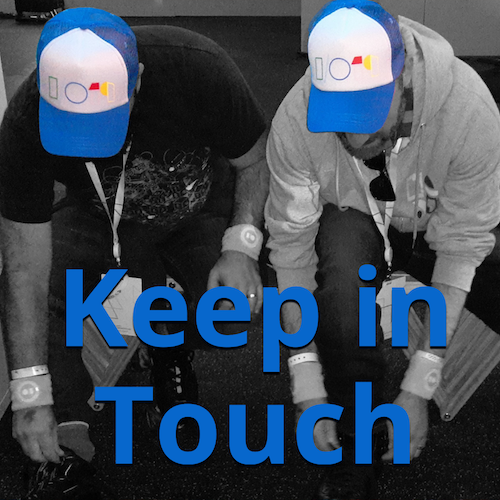
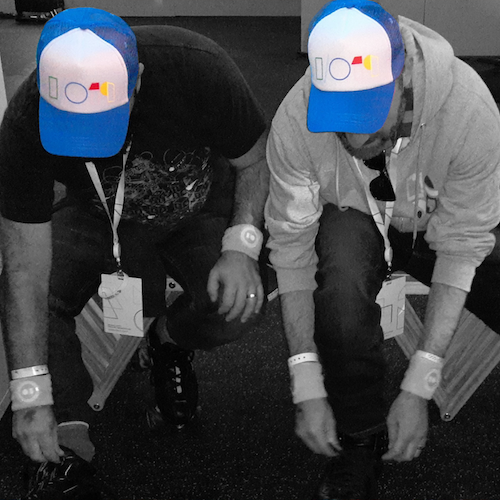
Various fixes
Fix
Attempt to address GitHub warning related to non-official theme
Add alt info to header image
Use local svg for Apple Podcasts rather than CDN
Link to Twitter profiles on About page
Remove Keep In Touch overlay from site avatar for improved legibility
Add subtitle for better context

diff --git a/_layouts/home.html b/_layouts/home.html
@@ -7,7 +7,7 @@ layout: default
   <div class="call-out"
   style="background-image: url('{{ site.baseurl }}/{{ site.theme_settings.header_text_feature_image }}')">
     {{ site.theme_settings.header_text }}
-    <a href="https://podcasts.apple.com/us/podcast/keep-in-touch/id1464996852?mt=2&app=itunes&at=10lPxj&ct=keepintouchfmheader" style="display:inline-block;overflow:hidden;background:url(https://linkmaker.itunes.apple.com/en-us/badge-lrg.svg?releaseDate=2019-05-23T00:00:00Z&kind=podcast&bubble=podcasts) no-repeat;width:165px;height:40px;"></a>
+    <a href="https://podcasts.apple.com/us/podcast/keep-in-touch/id1464996852?mt=2&app=itunes&at=10lPxj&ct=keepintouchfmheader" style="display:inline-block;overflow:hidden;background:url(/assets/img/US_UK_Apple_Podcasts_Listen_Badge_RGB.svg) no-repeat;width:165px;height:40px;"></a>&nbsp;
     <a href="https://open.spotify.com/show/5mTMx09beT6HlYIWBjqD9q" style="display:inline-block;overflow:hidden;background:url(/assets/img/spotify-podcast-badge-blk-wht-165x40.svg) no-repeat;width:165px;height:40px;"></a>    
   </div>
   {% endif %}

diff --git a/_includes/header.html b/_includes/header.html
@@ -6,11 +6,12 @@
 		</a>
 		{% elsif site.theme_settings.avatar %}
 		<a href="{{ site.baseurl }}/">
-			<img class="avatar" src="{{ site.baseurl }}/{{ site.theme_settings.avatar }}" alt=""/>
+			<img class="avatar" src="{{ site.baseurl }}/{{ site.theme_settings.avatar }}" alt="Nick and Todd at I/O"/>
 		</a>
 		{% endif %}
 		<h1 class="site-title">
-			<a href="{{ site.baseurl }}/">{{ site.theme_settings.title }}</a>
+			<a href="{{ site.baseurl }}/">{{ site.theme_settings.title }}<span class="site-subtitle">{{ site.theme_settings.subtitle }}</span>
+			</a>
 		</h1>
 	</div>
 	<nav class="site-nav">

diff --git a/_sass/includes/_header.scss b/_sass/includes/_header.scss
@@ -11,8 +11,8 @@
   }
 
   .avatar {
-    height: 2em;
-    width: 2em;
+    height: 5em;
+    width: 5em;
     float: left;
     margin-top: -3px;
     border-radius: 0.2em;
@@ -24,6 +24,13 @@
     font-weight: bold;
     font-size: 1em;
     line-height: 1.5;
+  }
+
+  .site-subtitle {
+    display: block;
+    font-weight: normal;
+    font-size: 0.8em;
+    line-height: 1.2;
   }
 
   .site-nav {

diff --git a/about.md b/about.md
@@ -5,6 +5,6 @@ permalink: /about/
 feature-img: "assets/img/sample_feature_img_2.png"
 ---
 
-Nick and Todd are two geeky dads, who met at the Google Developer Group Summit in California. Todd is a GDG Lead in USA, and Nick is GDG Lead in New Zealand. 
+<a href="https://twitter.com/nicktmro">Nick<a/> and <a href="https://twitter.com/todddeland">Todd<a/> are two geeky dads, who met at the Google Developer Group Summit in California. Todd is a GDG Lead in USA, and Nick is GDG Lead in New Zealand. 
 
-[__Keep in Touch__](https://anchor.fm/keep-in-touch) is their Podcast, giving the two guys another reason to catch up and have some fun with and about technology.
+[__Keep in Touch__](https://anchor.fm/keep-in-touch) is their Podcast, and it gives the two guys another reason to catch up and have some fun with and about technology.
